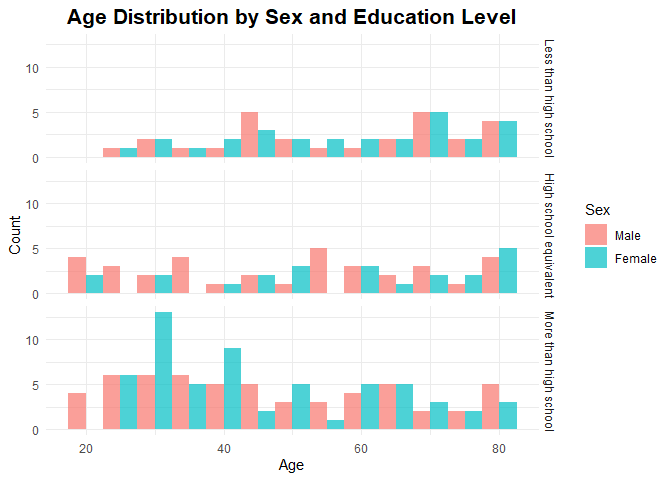
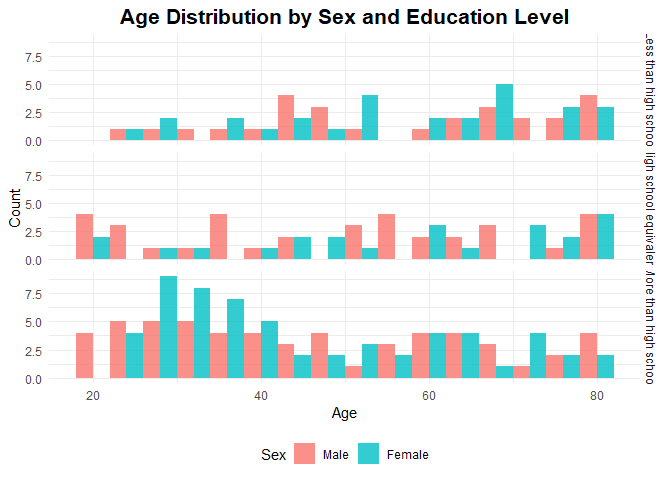
Problem 3

diff --git a/p8105_hw3_bz2570.md b/p8105_hw3_bz2570.md
@@ -542,7 +542,7 @@ The table for the number of men and women in each education category
 # Create a visualization of the age distributions for men and women in each education category
 age_dist_plot <- nhanes_clean |>
   ggplot(aes(x = age, fill = sex)) +
-  geom_histogram(position = "dodge", alpha = 0.7, binwidth = 5) +
+  geom_histogram(position = "dodge", alpha = 0.8, binwidth = 4) +
   facet_grid(education ~ .) +
   labs(
     title = "Age Distribution by Sex and Education Level",
@@ -552,15 +552,16 @@ age_dist_plot <- nhanes_clean |>
   )+
   theme_minimal() +
   theme(
+    legend.position = "bottom",
     plot.title = element_text(hjust = 0.5, face = "bold", size = 16)
   ) 
 print(age_dist_plot)
 ```
 
 ![](p8105_hw3_bz2570_files/figure-gfm/unnamed-chunk-17-1.png)<!-- -->
-Comment: The table indicates that for “Less than high school”, male (27)
-and female (28) counts are nearly equal; “High school equivalent” has
-more males (35) than females (23); and “More than high school” has
+Comment:<br/> The table indicates that for “Less than high school”, male
+(27) and female (28) counts are nearly equal; “High school equivalent”
+has more males (35) than females (23); and “More than high school” has
 slightly more females (59) than males (56). The histogram visualizes age
 distributions by sex across education levels: “Less than high school”
 shows relatively balanced sex counts across ages; “High school
@@ -568,3 +569,119 @@ equivalent” has higher male counts in some age bins; and “More than high
 school” features a notable peak in female counts for younger ages
 (around 30–40) with females often matching or exceeding male counts in
 most age groups.
+
+#### Aggregate across minutes to create a total activity variable for each participant
+
+``` r
+nhanes_total_activity <- nhanes_clean |>
+  mutate(total_activity = rowSums(across(starts_with("min")), na.rm = TRUE)) |>
+  select(seqn, sex, age, bmi, education, total_activity)
+```
+
+#### Plot total activities (y-axis) against age (x-axis)
+
+``` r
+total_activity_plot <- nhanes_total_activity |>
+  ggplot(aes(x = age, y = total_activity, color = sex)) + 
+  geom_point(alpha = 0.5) + 
+  geom_smooth(se = FALSE) + 
+  facet_wrap(~ education) + 
+  labs(
+    title = "Total activities against age", 
+    x = "Age", 
+    y = "Total Activity (MIMS)", 
+    color = "Sex"
+  ) +
+  theme_minimal()+
+  theme(
+    legend.position = "bottom",
+    plot.title = element_text(hjust = 0.5, face = "bold", size = 14)
+  )
+print(total_activity_plot)
+```
+
+    ## `geom_smooth()` using method = 'loess' and formula = 'y ~ x'
+
+![](p8105_hw3_bz2570_files/figure-gfm/unnamed-chunk-19-1.png)<!-- -->
+Comment: <br/> This plot shows total daily activity against age,
+comparing males (represented by the red line and points) and females
+(represented by the teal line and points) across three education groups.
+For individuals with less than a high school education, total activity
+decreases with age for both sexes, where males start with higher
+activity levels but see a sharper decline after 60. Among those with a
+high school equivalent education, activity peaks around middle age (40)
+for both male and female, and females maintain higher activity levels.
+For people with more than a high school education, activity remains more
+stable across different ages untile 60, and females consistently have
+higher total activity than males.
+
+#### Create three-panel plot for 24-hour activity time courses for each education level and use color to indicate sex
+
+``` r
+activity_24_plot <- nhanes_clean |>
+  pivot_longer(
+    cols = starts_with("min"), 
+    names_to = "minute", 
+    values_to = "mims_value",
+    names_prefix = "min"
+  ) |>
+  mutate(minute = as.numeric(minute)) |> 
+  group_by(education, sex, minute) |>
+  summarize(mean_mims = mean(mims_value, na.rm = TRUE), 
+            .groups = "drop") |>
+  ggplot(aes(x = minute, y = mean_mims, color = sex)) + 
+  geom_line(alpha = 0.7) + 
+  geom_smooth(se = FALSE, linewidth = 1.2) +
+  facet_wrap(~ education, nrow = 1) +
+  labs(
+    title = "24-Hour Activity Time Courses by Education Level and Sex", 
+    x = "Time of Day", 
+    y = "Average MIMS", 
+    color = "Sex"
+  ) + 
+  scale_x_continuous(
+    breaks = c(0, 360, 720, 1080, 1440), 
+    labels = c("0:00", "6:00", "12:00", "18:00", "24:00") 
+  ) +
+    theme_minimal()+
+    theme(
+      legend.position = "bottom",
+      plot.title = element_text(hjust = 0.5, face = "bold", size = 14)
+    )
+print(activity_24_plot)
+```
+
+    ## `geom_smooth()` using method = 'gam' and formula = 'y ~ s(x, bs = "cs")'
+
+![](p8105_hw3_bz2570_files/figure-gfm/unnamed-chunk-20-1.png)<!-- -->
+Comment: <br/> This plot shows 24-hour activity time courses across
+three education levels, with color distinguishing sex (red for males,
+teal for females). Across all education levels, both sexes follow a
+similar daily pattern that activity rises in the morning, peaks around
+midday, and declines in the evening. However, females consistently show
+higher average activity than males during peak hours (around midday) in
+every education group. Additionally, the magnitude of peak activity
+varies by education, with the “Less than high school” group having the
+highest peak. Overall, while the daily activity rhythm is similar,
+gender differences and the changes in peak activity amplitude vary with
+education level.
+
+``` r
+ggsave("results/age_dist_plot.png", age_dist_plot)
+```
+
+    ## Saving 7 x 5 in image
+
+``` r
+ggsave("results/total_activity_plot.png", total_activity_plot)
+```
+
+    ## Saving 7 x 5 in image
+    ## `geom_smooth()` using method = 'loess' and formula = 'y ~ x'
+
+``` r
+ggsave("results/activity_24_plot.png", activity_24_plot)
+```
+
+    ## Saving 7 x 5 in image
+    ## `geom_smooth()` using method = 'gam' and formula = 'y ~ s(x, bs = "cs")'
